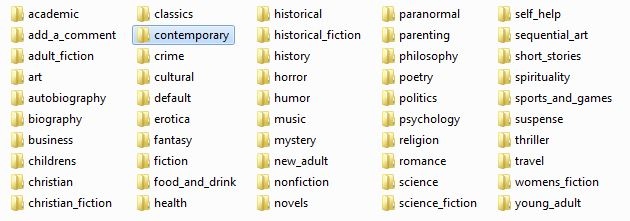
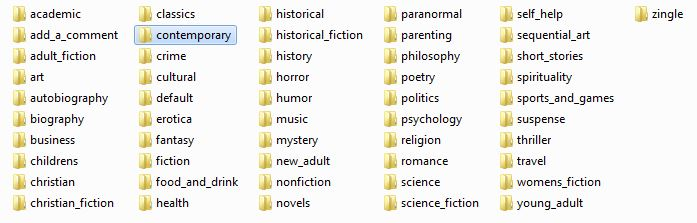
Scrap.py     .Désormais, l'option 'book' écrit un .csv et ddl la cover pour le livre dont l'url est donnée (auparavent cela affichée la data dans le terminal et ne ddl pas la cover)     .Tous les .csv et les covers récupérés par cette option, sont stockés dans le dossier './output/zingle'
main_p02_scrap.py
    .Ajout de la fonction main_with_book(). Elle est la suite d'instruction pour l'option 'book' de scrap.py

f_write_csv.py et g_cover_download.py
    .Modifiés pour gérer la nouvelle fonctionnalité de l'option 'book' de scrap.py

README.md
    .Section 'Utilisation' en cours d'écriture
        ..L'option 'book' de scrap.py est définit
    .Section 'Description'. Désormais, l'image montrant tous les dossiers de './output', montre aussi le dossier './output/zingle', nouvellement crée pour l'option 'book' de scrap.py

diff --git a/scrap_package/g_cover_download.py b/scrap_package/g_cover_download.py
@@ -4,10 +4,10 @@ import re
 from slugify import slugify
 
 
-def cover_ddl_func(all_data):
+def cover_ddl_func(data_desired):
     # Dans all_data les noms de catégories sont en .capitalize et avec un
     # espace entre les mots. name_category change cela.
-    name_category = all_data.get('category')[0].lower().replace(' ', '_')
+    name_category = data_desired.get('category')[0].lower().replace(' ', '_')
 
     # Dossier où est exécuté le scrip = './'
 
@@ -18,9 +18,14 @@ def cover_ddl_func(all_data):
 
     # Vérifie qu'il existe './output/name_category/cover_name_category'
     # Sinon crée le dossier.
-    folder_cover = 'output/' + name_category + '/cover_' + name_category
-    if os.path.exists(folder_cover) == False:
-        os.mkdir(folder_cover)
+    folder_cover = ''
+    if len(data_desired.get('category')) == 1:
+        folder_cover = 'output/zingle/'
+        pass
+    else:
+        folder_cover = 'output/' + name_category + '/cover_' + name_category
+        if os.path.exists(folder_cover) == False:
+            os.mkdir(folder_cover)
 
 
     # Dans all_data, les noms des titres de livres ont plusieurs majuscules et
@@ -28,19 +33,19 @@ def cover_ddl_func(all_data):
     # fichiers. title_adjust change cela.
     # Vérifie que la cover 'folder_cover/title_adjust.jpg' n'existe pas.
     # Si absente alors la download.
-    for idx in range(len(all_data['image_url'])):
+    for idx in range(len(data_desired['image_url'])):
         # text = all_data['title'][idx].lower().replace('"', '\'').replace(' ', '_')
-        title_adjust = re.sub('[\\\\/<>|]', '', all_data['title'][idx].lower()
+        title_adjust = re.sub('[\\\\/<>|]', '', data_desired['title'][idx].lower()
                               .replace('?', '¿')
                               .replace('*', '^')
                               .replace(':', '_-')
                               .replace('"', '\'')
                               .replace(' ','_'))
 
-        upc_book = '_upc_' + all_data['universal_product_code (upc)'][idx]
+        upc_book = '_upc_' + data_desired['universal_product_code (upc)'][idx] + '.jpg'
        #  title_adjust = upc + '-' + slugify
-        name_cover = folder_cover + '/' + title_adjust + upc_book + '.jpg'
-
+        start_name_cover = folder_cover + '/' + title_adjust
+        name_cover = start_name_cover + upc_book
         if os.path.exists(name_cover) == False:
             # La longueur de chemin complet du fichier de la cover et nécessaire
             # pour gérer l'exception des noms trop long.
@@ -72,14 +77,14 @@ def cover_ddl_func(all_data):
                 vital_module_gwet = 15
                 # gap_over_limit est le nombre de caractères en trop dans le
                 # titre du livre. Dans notre cas, la variable title_adjust.
-                gap_over_limit = len(path) - 260 + len('[_].jpg') + len(upc_book)+ vital_module_gwet
-                short_name = name_cover[:-gap_over_limit] + '[…]' + upc_book + '.jpg'
+                gap_over_limit = len(name_cover) - 260 + vital_module_gwet + len('[…]') + len(upc_book)
+                short_name = start_name_cover[:-gap_over_limit] + '[…]' + upc_book
                 # On vérifie qu'il n'existe pas déjà une cover du même nom, pour
                 # éviter les download inutile et réduire la durée du script.
                 if os.path.exists(short_name) == False:
-                    wget.download(all_data['image_url'][idx], out=short_name)
+                    wget.download(data_desired['image_url'][idx], out=short_name)
             else:
-                wget.download(all_data['image_url'][idx], out=name_cover)
+                wget.download(data_desired['image_url'][idx], out=name_cover)
 
 # telecharger_images()
 

diff --git a/scrap_package/f_write_csv.py b/scrap_package/f_write_csv.py
@@ -20,13 +20,38 @@ def write_data_desired_in_csv_func(data_desired):
 
     # Vérifie qu'il existe './output/name_category'
     # Sinon crée le dossier.
-    folder = 'output/' + name_category
-    if os.path.exists(folder) == False:
-        os.mkdir(folder)
+
 
     # Nom et chemin du fichier .csv
-    name_file = folder + '/' + \
-                'data_books_in_' + name_category +'_category' + '.csv'
+    name_file = ''
+    if len(data_desired.get('category')) == 1:
+        title_adjust = re.sub('[\\\\/<>|]', '', data_desired['title'][0].lower()
+                              .replace('?', '¿')
+                              .replace('*', '^')
+                              .replace(':', '_-')
+                              .replace('"', '\'')
+                              .replace(' ','_'))
+        upc_book = '_upc_' + data_desired['universal_product_code (upc)'][0] + '.csv'
+        start_name_file = 'output/zingle/' + title_adjust
+        name_file_temp = start_name_file + upc_book
+        path_file = os.getcwd() + '/' + start_name_file + upc_book
+        if len(path_file) >= 260:
+            # vital_module_gwet = 15
+            # gap_over_limit est le nombre de caractères en trop dans le
+            # titre du livre. Dans notre cas, la variable title_adjust.
+            gap_over_limit = len(name_file_temp) - 260 + len('[…]') + len(upc_book)
+            short_name = start_name_file[:-gap_over_limit] + '[…]' + upc_book
+            # On vérifie qu'il n'existe pas déjà une cover du même nom, pour
+            # éviter les download inutile et réduire la durée du script.
+            name_file = short_name
+        else:
+            name_file = start_name_file + upc_book
+    else:
+        folder = 'output/' + name_category
+        if os.path.exists(folder) == False:
+            os.mkdir(folder)
+        name_file = folder + '/' + \
+                    'data_books_in_' + name_category +'_category' + '.csv'
 
     # Nécessaire pour générer le nombre de row adéquat à l'aide d'une boucle for
     quantity_values_by_key = len(data_desired['title'])

diff --git a/scrap_package/main_p02_scrap.py b/scrap_package/main_p02_scrap.py
@@ -25,6 +25,8 @@ from scrap_package.g_cover_download import cover_ddl_func
 #
 # # Possiblité de mettre le script en pause ? De l'interrompre ?
 #
+#
+#
 # # Dans fonction écriture .csv, vérifier si plusieurs éditions d'une œuvre sont référencés. Si oui
 # ajouter une mention après le nom du titre, genre 'édition A'.
 
@@ -43,7 +45,7 @@ def check_url_site(arg):
             return all_url_home_pages_category_book
 
 
-def main_with_selection():
+def main_with_input():
     all_url_home_pages_category_book = check_url_site('URL_HOME_SITE')
     url_home_category_to_scrap = selection_category_for_scrap_func(all_url_home_pages_category_book)
     for idx, url_category in enumerate(url_home_category_to_scrap):
@@ -58,7 +60,7 @@ def main_with_selection():
         cover_ddl_func(data)
 
 
-def main_without_selection():
+def main_with_all():
     url_home_all_category_book = collect_url_home_all_category_func('URL_HOME_SITE')
     for idx, url_category in enumerate(url_home_all_category_book):
         print('La catégorie {0} ({1}/{2}) est en cours.\n'.format(url_category[51:-13].replace('_', ' ')
@@ -69,3 +71,9 @@ def main_without_selection():
         data_desired = scrap_data_func(url_books)
         write_data_desired_in_csv_func(data_desired)
         cover_ddl_func(data_desired)
+
+def main_with_book(url_input):
+    url_book = check_url_books_func([url_input])
+    data = scrap_data_func(url_book)
+    write_data_desired_in_csv_func(data)
+    cover_ddl_func(data)

diff --git a/scrap.py b/scrap.py
@@ -3,8 +3,9 @@ import sys
 
 from scrap_package.c_scrap_books_urls_in_category import scrap_books_urls_in_category_func
 from scrap_package.e_scrap_data import scrap_data_func
-from scrap_package.main_p02_scrap import main_without_selection
-from scrap_package.main_p02_scrap import main_with_selection
+from scrap_package.main_p02_scrap import main_with_all
+from scrap_package.main_p02_scrap import main_with_input
+from scrap_package.main_p02_scrap import main_with_book
 
 
 user_args = sys.argv
@@ -20,21 +21,21 @@ def description():
 def main(user_args):
     try:
         if user_args[1] == 'book':
-            data_desired = scrap_data_func([user_args[2]])
-            pp(data_desired)
+            main_with_book(user_args[2])
 
         elif user_args[1] == 'category':
             url_books_of_category = scrap_books_urls_in_category_func(user_args[2])
             pp(url_books_of_category)
 
         elif user_args[1] == 'all':
-            main_without_selection()
+            main_with_all()
 
         elif user_args[1] == 'input':
-            main_with_selection()
+            main_with_input()
         else:
             description()
     except Exception as e:
+        pass
         print(str(e))
         description()
 

diff --git a/readme/README.md b/readme/README.md
@@ -36,6 +36,15 @@ Relancer le script réécrira le .csv de la catégorie, mais ne retéléchargera
 
 ## Utilisation ##
 
+Le script s'utilise à partir d'un terminal, de 4 façons différentes.
+
+![option_scrap.py](option_scrap.py.jpg)
+1. L'option 'book' suivit de l'url d'un livre spécifique, pour recueillir les données d'un seul livre.\
+Tous les .csv écrits et les couvertures des livres téléchargées via cette option, sont stockés dans le dossier './output/zingle'\
+![two_books_of_contemporary_category_in_folder_zingle](two_books_of_contemporary_category_in_folder_zingle.jpg)
+2. 
+3. 
+4. 
 
 
 ### Requierements
